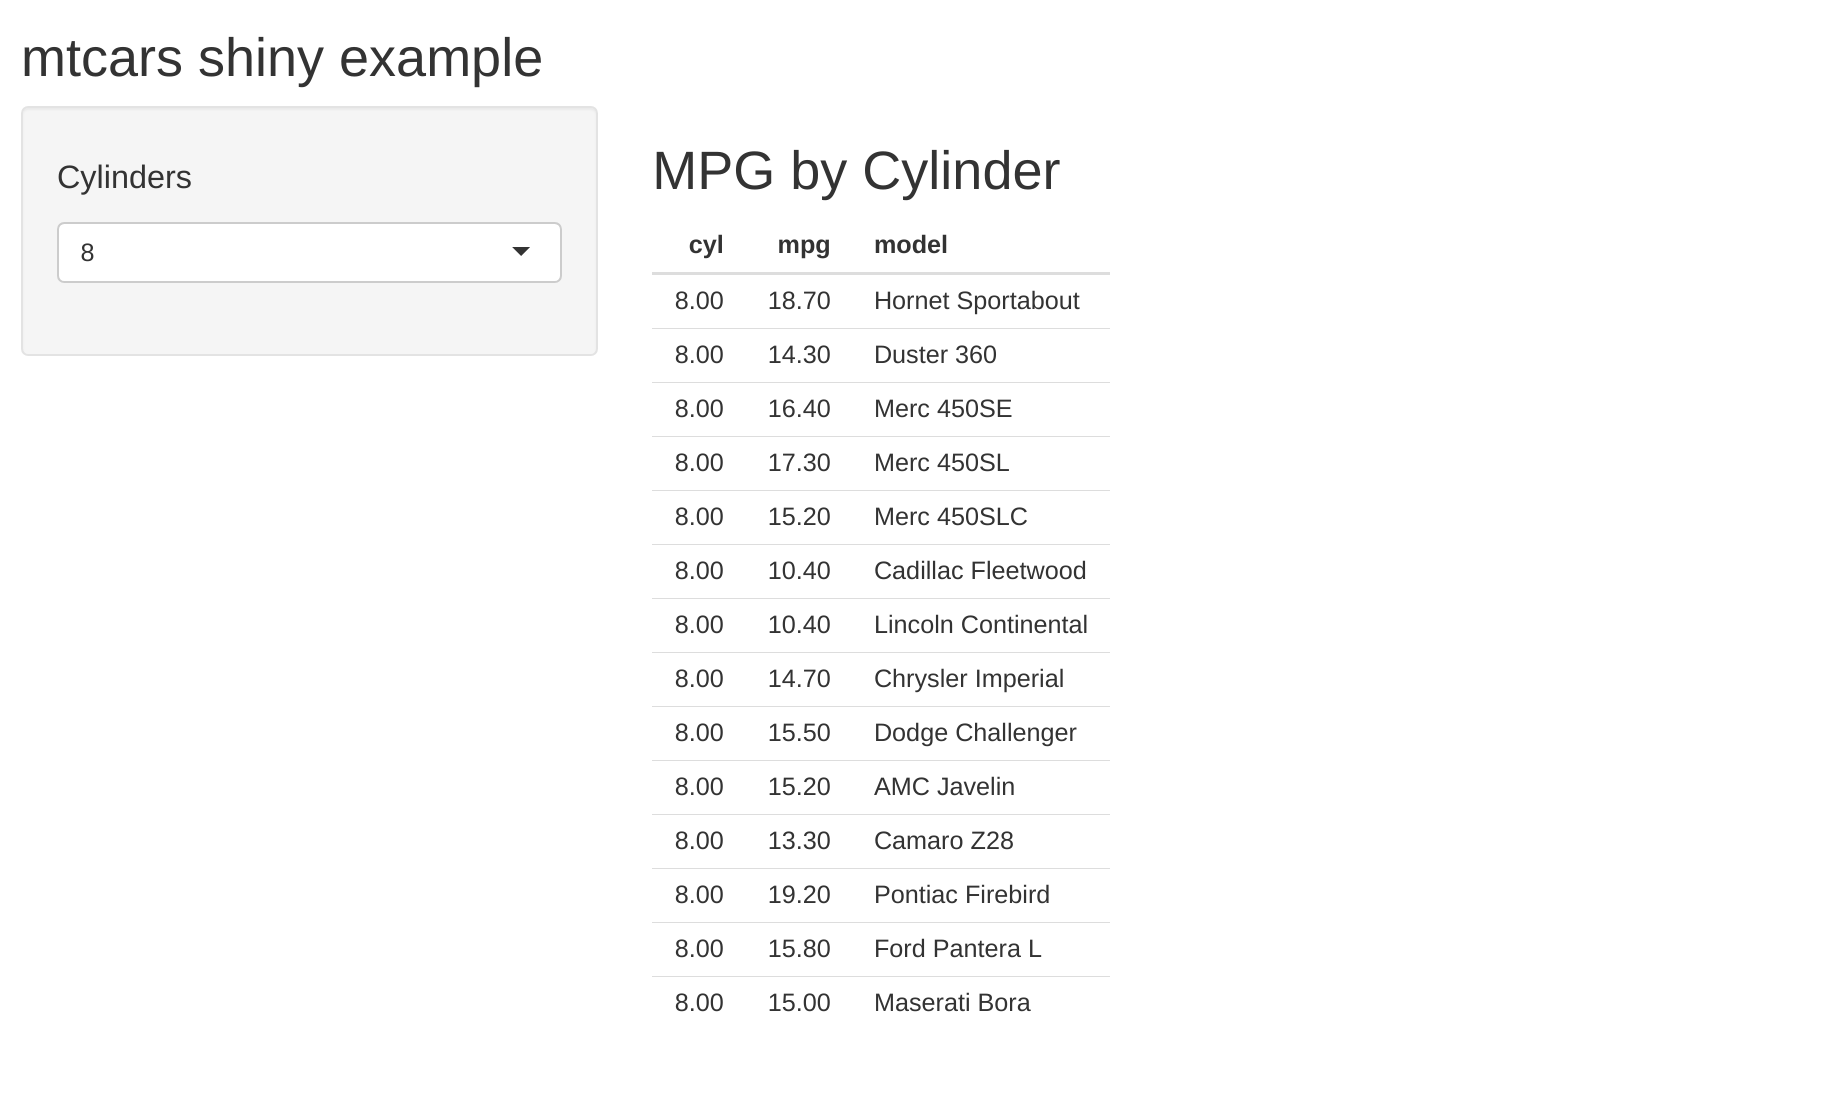
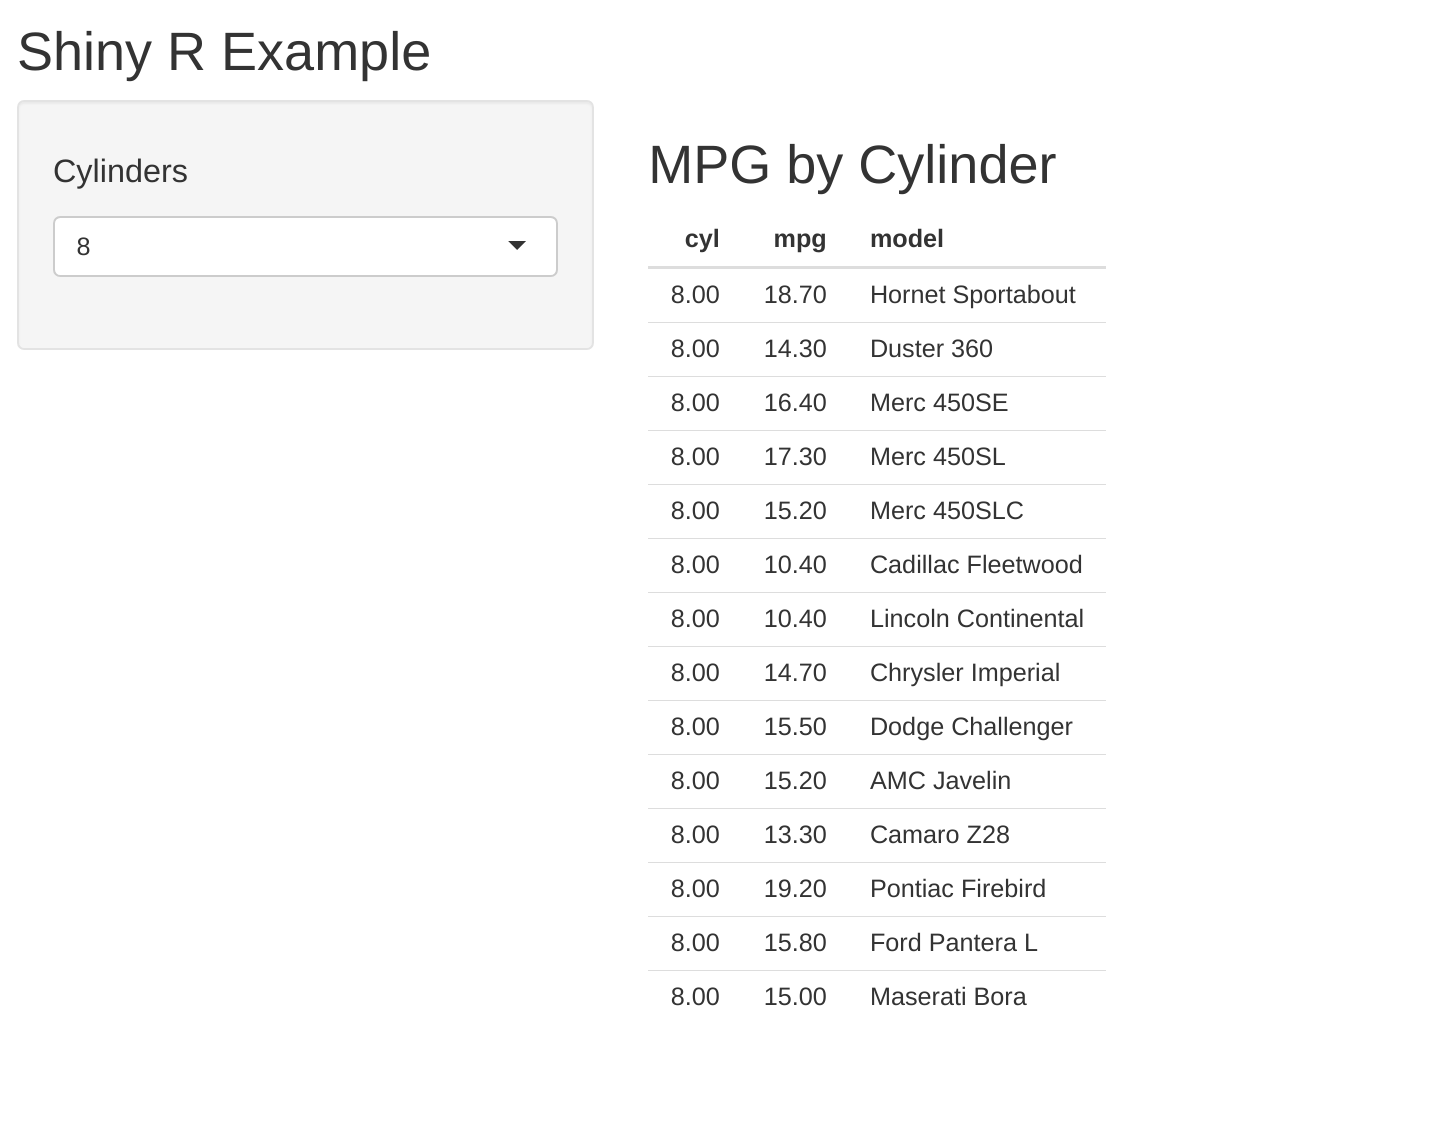
Updates shiny example image and app title

diff --git a/README.md b/README.md
@@ -47,7 +47,9 @@ This can be verified by using the R `Sys.getenv()` function.
 > Sys.getenv("CONNECT_API_KEY")
 ```
 
-### Publish a Shiny app
-<img src="https://github.com/lagerratrobe/connect_examples/raw/main/shiny_app_example.png" width="500" />
+### Publish a Shiny R app
+
   * app code in `R/shiny`
   * publish with `publish_shiny_app.R` script
+
+<img src="https://github.com/lagerratrobe/connect_examples/raw/main/shiny_app_example.png" width="500" />
